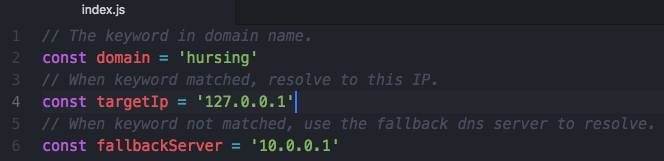
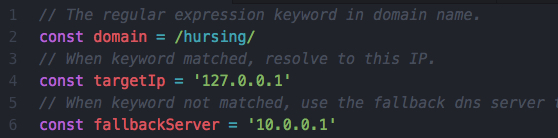
use regular expression

diff --git a/index.js b/index.js
@@ -1,5 +1,5 @@
-// The keyword in domain name.
-const domain = 'hursing'
+// The regular expression keyword in domain name.
+const domain = /hursing/
 // When keyword matched, resolve to this IP.
 const targetIp = '127.0.0.1'
 // When keyword not matched, use the fallback dns server to resolve.
@@ -41,7 +41,7 @@ function resolve(msg, rinfo) {
   offset += 4
   response.writeUInt16BE(4, offset)  // Length of IP
   offset += 2
-  targetIp.split('.').map(value => {
+  targetIp.split('.').forEach(value => {
     response.writeUInt8(value, offset)
     offset += 1
   })
@@ -94,10 +94,10 @@ server.on('message', (msg, rinfo) => {
   // console.log(msg.toString('hex'))
   const host = parseHost(msg.slice(12))
   console.log(`receive query: ${host}`)
-  if (host.indexOf(domain) === -1) {
-    forward(msg, rinfo)
-  } else {
+  if (domain.test(host)) {
     resolve(msg, rinfo)
+  } else {
+    forward(msg, rinfo)
   }
 })
 

diff --git a/README.md b/README.md
@@ -67,6 +67,5 @@ DNS protocol: https://tools.ietf.org/html/rfc1035
 
 ## 可以做更多 You can do more
 
-- 把关键字做成正则匹配 use regular expression to match keyword
 - 加入配置文件，可匹配多个关键字 use configuration file for matching multiple keywords
 - 增加命令行参数，不用在源码修改关键字 add command line args support to avoid modifying keyword in source code
